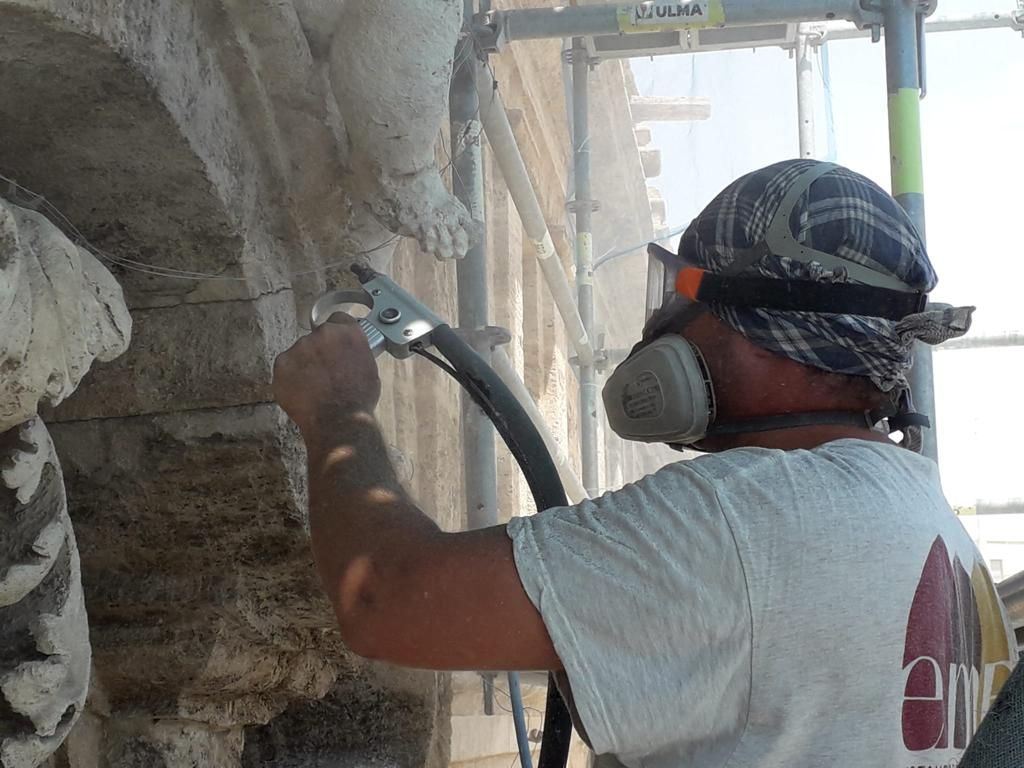
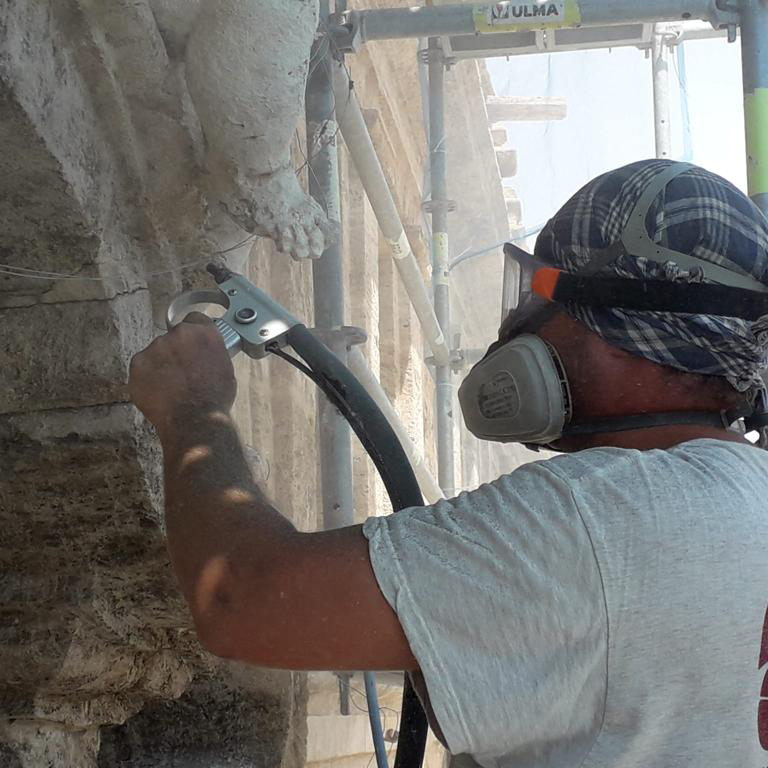
restauracion

diff --git a/restauracion.html b/restauracion.html
@@ -47,15 +47,27 @@
             <article>
                 <h1 id="titulo">RESTAURACIÓN DE ARTE</h1>
                     <p>Los amantes del arte saben que para que se mantenga eterno debe tenerse en cuenta que el material se degrada. Por ello es muy importante su convservación y mantenimiento para dar longevidad al patrimonio. </p>
-                    <img class="principal" src="images/fuente.JPG" alt="fuente">
+                    
                 <section> 
                     <h2>PIEDRA Y MADERA</h2>
-
                     <p>Estos dos materiales son los que más experiencia se ha podido desarrollar.</p>
-                    
+                    <div class="contenedor">
+                        <div id="div1" class="image-container">
+                            <img id="image1" class="cambio active"  src="images/limpieza.jpeg" alt="enea">
+                            <!--<img id="image2" class="cambio" src="images/santosjuanes.jpeg" alt="santos juanes">-->
+                        </div>
+                        <div class="text">
+                            <p>En los edificios patrimoniales, la mayoría de materiales que nos podemos encontrar son piedra y madera. Estos son los elementos con los que más 
+                                ha podido trabajar durante sus años de experiencia profesional en el sector de la restauración de patrimonio. 
+                                <br>Procesos realizados: Proyección de partículas para la limpieza de fachadas de materiales pétreos. 
+                                Reintengración colorimétrica, Consolidación, etc. <br>Gracias a la experiéncia previa en realización de encimeras también tiene conocimientos 
+                                sufientes para la confección de moldes para la reintegración volumétrica. 
+                                <br>Tristan ha estado en campañas como el antiguo molino de Monsalva, La fuente de Luceros, y actualmente se encuentra en los Santos Juanes de Valencia. 
+                            </p>
+                        </div>
                     <h2>ASIENTOS ENEA</h2>
                     <div class="contenedor">
-                        <div class="image">
+                        <div id="div2" class="contenedor">
                             <img id="imagen-cambiante" src="images/enea.JPG" alt="enea">
                         
                             <button id="playButton">
@@ -75,7 +87,7 @@
                 
                         <div class="text">
                             <p>Los asientos de enea, están hecho en base a una técnica artesanal poco practicada actualmente, en la que tanto los especialistas como la material prima están escaseando. Para la perdurabilidad de la técnica se debe prácticar y transmitir para que no caiga en desuso.
-                            Durante estos años ha impartido clases de enea en la académia <i>Acanthus</i>. Además de realización por encargo de asientos de este material. </p>
+                            Durante estos años Trisan ha impartido puntualmente clases de enea en la académia <i>Acanthus</i>. Además de realización por encargo de asientos de este material. </p>
                             
                             
 
@@ -144,7 +156,7 @@
 
 
         <script>
-            const imagenes = [
+                        const imagenes = [
             'images/enea.jpg',
             'images/enea2.jpg',
             ]
@@ -158,9 +170,26 @@
             }
 
             // Inicia el cambio de imagen al cargar la página
-            cambiarImagen();
+
+        
         </script>
        
 
     </body>
 </html>
+
+<!--
+
+        
+        
+        document.addEventListener('DOMContentLoaded', function () {
+        const images = document.querySelectorAll('.contenedor img');
+        let index = 0;
+
+        setInterval(function () {
+            images.forEach(img => img.classList.remove('active'));
+            index = (index + 1) % images.length;
+            images[index].classList.add('active');
+        }, 5000);
+        });
+        -->

diff --git a/css/restauracion.css b/css/restauracion.css
@@ -190,7 +190,7 @@ li a:hover{
     align-items: center;
     
 }
-.image>img{
+.image>img, #image1, #imagen-cambiante{
     max-width: 100%;
     margin-bottom: 1em;
     border-radius: 50%;
@@ -200,6 +200,21 @@ li a:hover{
 img{
     max-width: 100%;
 }
+/*
+.image-container {
+    display: flex;
+  }
+  
+ .cambio {
+    width: 90%;
+    display: none;
+  }
+  
+  .active {
+    display: block;
+  }
+  
+*/
  /* VIDEO */
 .modal {
     display: none;
